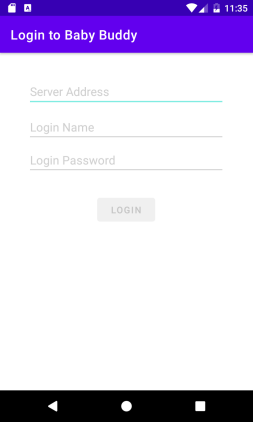
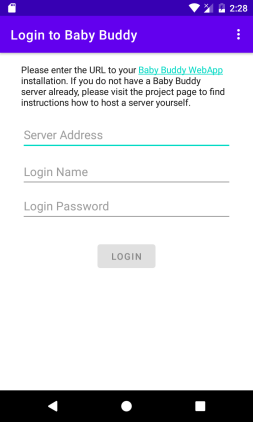
Update doc images, fix text

diff --git a/doc/logging.md b/doc/logging.md
@@ -1,15 +1,10 @@
 # Setup for time logging
 
-The time logging feature is a little complex because it needs to be
-synchronized with Baby Buddy's timer feature so that multiple users can
-stop the same set of timers. In the simplest case, you have
-a child that has no registered timers configured. In this case, the app will
-present you with the option to "create default timers":
+The time logging feature uses Baby Buddy's timer feature so that multiple caregivers can stop the same set of timers. In the simplest case, you have a child that has no registered timers configured. In this case, the app will present you with the option to "create default timers":
 
 ![Create default timers button](images/timer_empty_list-smaller.png)
 
-When clicking the button, the app will create a set of timers on the server
-with default names corresponding to the three main activities that can be
+When clicking the button, the app will automatically create a set of timers on the server for you with default names corresponding to the three main activities that can be
 logged on Baby Buddy:
 
 - Tummy time
@@ -20,55 +15,38 @@ That will look like this:
 
 ![The default timer list](images/timer_default_timers-smaller.png)
 
-The advantage of using the default timers is that they - by default - should
-work for anyone using the Android app. However, it is not necessary to use
-default timers. All timers configured for a particular child will be shown in
-the timer list.
+The advantage of using the default timers is that they - by default - should work for anyone using the Android app. However, it is not necessary to use default timers. All timers configured for a particular child will be shown in the timer list.
 
-In particular when linking a Baby Buddy instance that was used
-before, a set of stopped (Quick-)timers might already be present:
+In particular when linking a Baby Buddy instance that was used before, a set of stopped (Quick-)timers might already be present:
 
 ![Clutter from quick timers](images/timer_quicktimer_mess-smaller.png)
 
-I would advise to clean those before using the Android app from the timers menu
-in Baby Buddy:
+In this case you can use the "recreate default timers" option from the menu in the top-right of the application to relplace all already created timers are replace them with the default set.
 
-![Delete timers menu](images/timer_delete_old_timers.png)
+![Recreate default timers menu option](images/recreate_default_timers_option-smaller.png)
 
 # Using timers
 
-First, you should associate existing typers with the corresponding type of
-activity that should be tracked for that given timer. When using the default
-timers (see above), this is not necessary, because one timer for each activity
-will be created by default.
+First, you should associate existing timers with the corresponding type of activity that should be tracked for that given timer. When using the app's default timers, this is not necessary, because one timer for each activity will be created by default.
 
-However, for pre-configured other timers with you can select the timer type 
-in the drop-down below the Timer-name:
+However, for timers that were note created by the app you can select the timer type in the drop-down below the Timer-name:
 
 ![Selecting timer types](images/timer_select_default_timer-smaller.png)
 
-The timer will be associated with that particular type. Note that this is
-different from how Baby Buddy manages the timers! When stopping a timer the
-the associated activity will be logged automatically.
+The timer will be associated with that particular type of activity. Note that this is different from how Baby Buddy manages the timers! When stopping a timer the the associated activity will be logged automatically.
 
 # Logging different activities
 
-Logging "Tummy time" and "Sleep" time is simple: Start the timer, stop the timer
-and the activity is logged.
+Logging "Tummy time" and "Sleep" time is simple: Start the timer, stop the timer and the activity is logged.
 
-Logging a feed is more complex: When the timer is stopped, a new screen opens
-allowing you to log more details about the feeding that should be logged.
-
-(This will be subject to change so I will only briefly explain the screen)
+Logging a feed is more complex: When the timer is stopped, a new screen opens allowing you to log more details about the feeding session that should be logged.
 
 ![Feeding log screen](images/timer_feeding_screen-smaller.png)
 
-The slider at the top allows you to select the "amount" that the child has 
-consumed. Slide the slider and keep it pressed(!) to incrementally change the
-amount.
+The top shows a horizontal slider that can be used to adjust the "amount"-value. The amount value is a generic number that will be associated with the feeding and could, for example, be the weight of the meal that the child consumed. Scrolling to the very left allows a "None"-option in case no "amount" should be registered.
 
-Then select what type of feeding happened using the buttons below. The screen
-will guite you through the different required fields. When everything has been
-set, you press the "Save" button to save the feeding entry to the Baby Buddy.
+Below the amount-slider an optional field for notes is shown.
+
+Below the notes field there are buttons that allow you to store the type of feeding that needs to be registered. The screen will guide you through the different required fields. When everything has been set, you press the "Save" button to save the feeding entry to the Baby Buddy.
 
 ![Feeding screen save button](images/timer_feeding_screen_final-smaller.png)

diff --git a/doc/login.md b/doc/login.md
@@ -1,36 +1,25 @@
 # Login and setup
 
-When you first lauch the application you will be presented with the
-login screen:
+When you first launch the application you will be presented with the login screen:
 
 ![Baby Buddy login screen](images/login_screen-smaller.png)
 
-Enter the URL to the Baby Buddy server you want to use the app with in the
-server-address bar. Then add your login name and password and press "login".
+Enter the URL to the Baby Buddy server you want to use the app with in the server-address bar. Then add your login name and password and press "login".
 
-_Tip:_ You can try out the app with Baby Buddy's official demo server. Do not
-put any private information into the app while logged in to the server! The
-credentials for the server are:
+_Tip:_ You can try out the app with Baby Buddy's official demo server. Do not put any private information into the app while logged in to the server! The credentials for the server are:
 
 - Server: http://demo.baby-buddy.net/
 - Login Name: admin
 - Login Password: admin
-- Note: The server is _not_ using HTTPS so you need to deal with the HTTP 
-    warning described below.
+- Note: The server is _not_ using HTTPS so you need to accept the HTTP warning described below.
 
 ## Insecure HTTP connections
 
-You _can_ use an insecure HTTP server to connect to but a warning will popup
-advising you against it. It is strongly advised to only use HTTPS-secured
-servers when logging in over the internet! Your password will not be encrypted
-when logging in to a server over the internet using HTTP and can therefore
-easily be stolen. The HTTP-option really only is there for _local_ installations
-of Baby Buddy in a home network which is not exposed to the internet.
+You _can_ use an insecure HTTP server to connect to, but if you do, a warning will show advising you against it. It is strongly advised to only use HTTPS-secured servers when logging in over the internet! Your password will not be encrypted when logging in to a server over the internet using HTTP and can therefore easily be stolen. The HTTP-option really only is meant for _local home-network_ installations of Baby Buddy in a home network which are not exposed to the internet.
 
 # Children list
 
-After you logged in to the server you should find the app showing information
-for a single child in the Baby Buddy database:
+After you logged in to the server you should find the app showing information for a single child in the Baby Buddy database:
 
 ![App after logging in](images/demo_screenie-smaller.png)
 
@@ -39,7 +28,7 @@ You can swipe left and right to switch between multiple children.
 If you did not create a child on the Baby Buddy webapp, yet, you will see
 "(No children found)" in the title-bar of the app instead. Login to the
 web app directly and add children as needed. After you created the children
-you need, login back to the Android app and continue.
+in Baby Buddy, login back to the Android app and continue.
 
 # Next steps
 

diff --git a/doc/diaper.md b/doc/diaper.md
@@ -3,13 +3,16 @@
 The quick buttons for logging diaper changes can be found in the upper part
 of the app.
 
-![Location of the diaper chnage buttons](images/diaper_change_buttons-smaller.png)
+![Location of the diaper change buttons](images/diaper_change_buttons-smaller.png)
 
-The buttons are designed to be able to _quickly_ register a diaper change at
-that happened at the current moment. The two icons indicate how "wet"
-and "solid" contents. Click one or both as observed, and a save-incon will
-appear.
+The buttons are designed to be able to _quickly_ register a diaper change at the current moment. The two icons indicate how "wet" and "solid" contents. Click one or both as needed. A save-button will appear afterwards:
 
 ![Diaper change save button](images/diaper_save_button-smaller.png)
 
+You can also add a note to the diaper change by clicking the notes button:
+
+![Notes button](images/notes_button.png)
+
 Press the save button to record a diaper change. That is it, easy as that.
+
+
